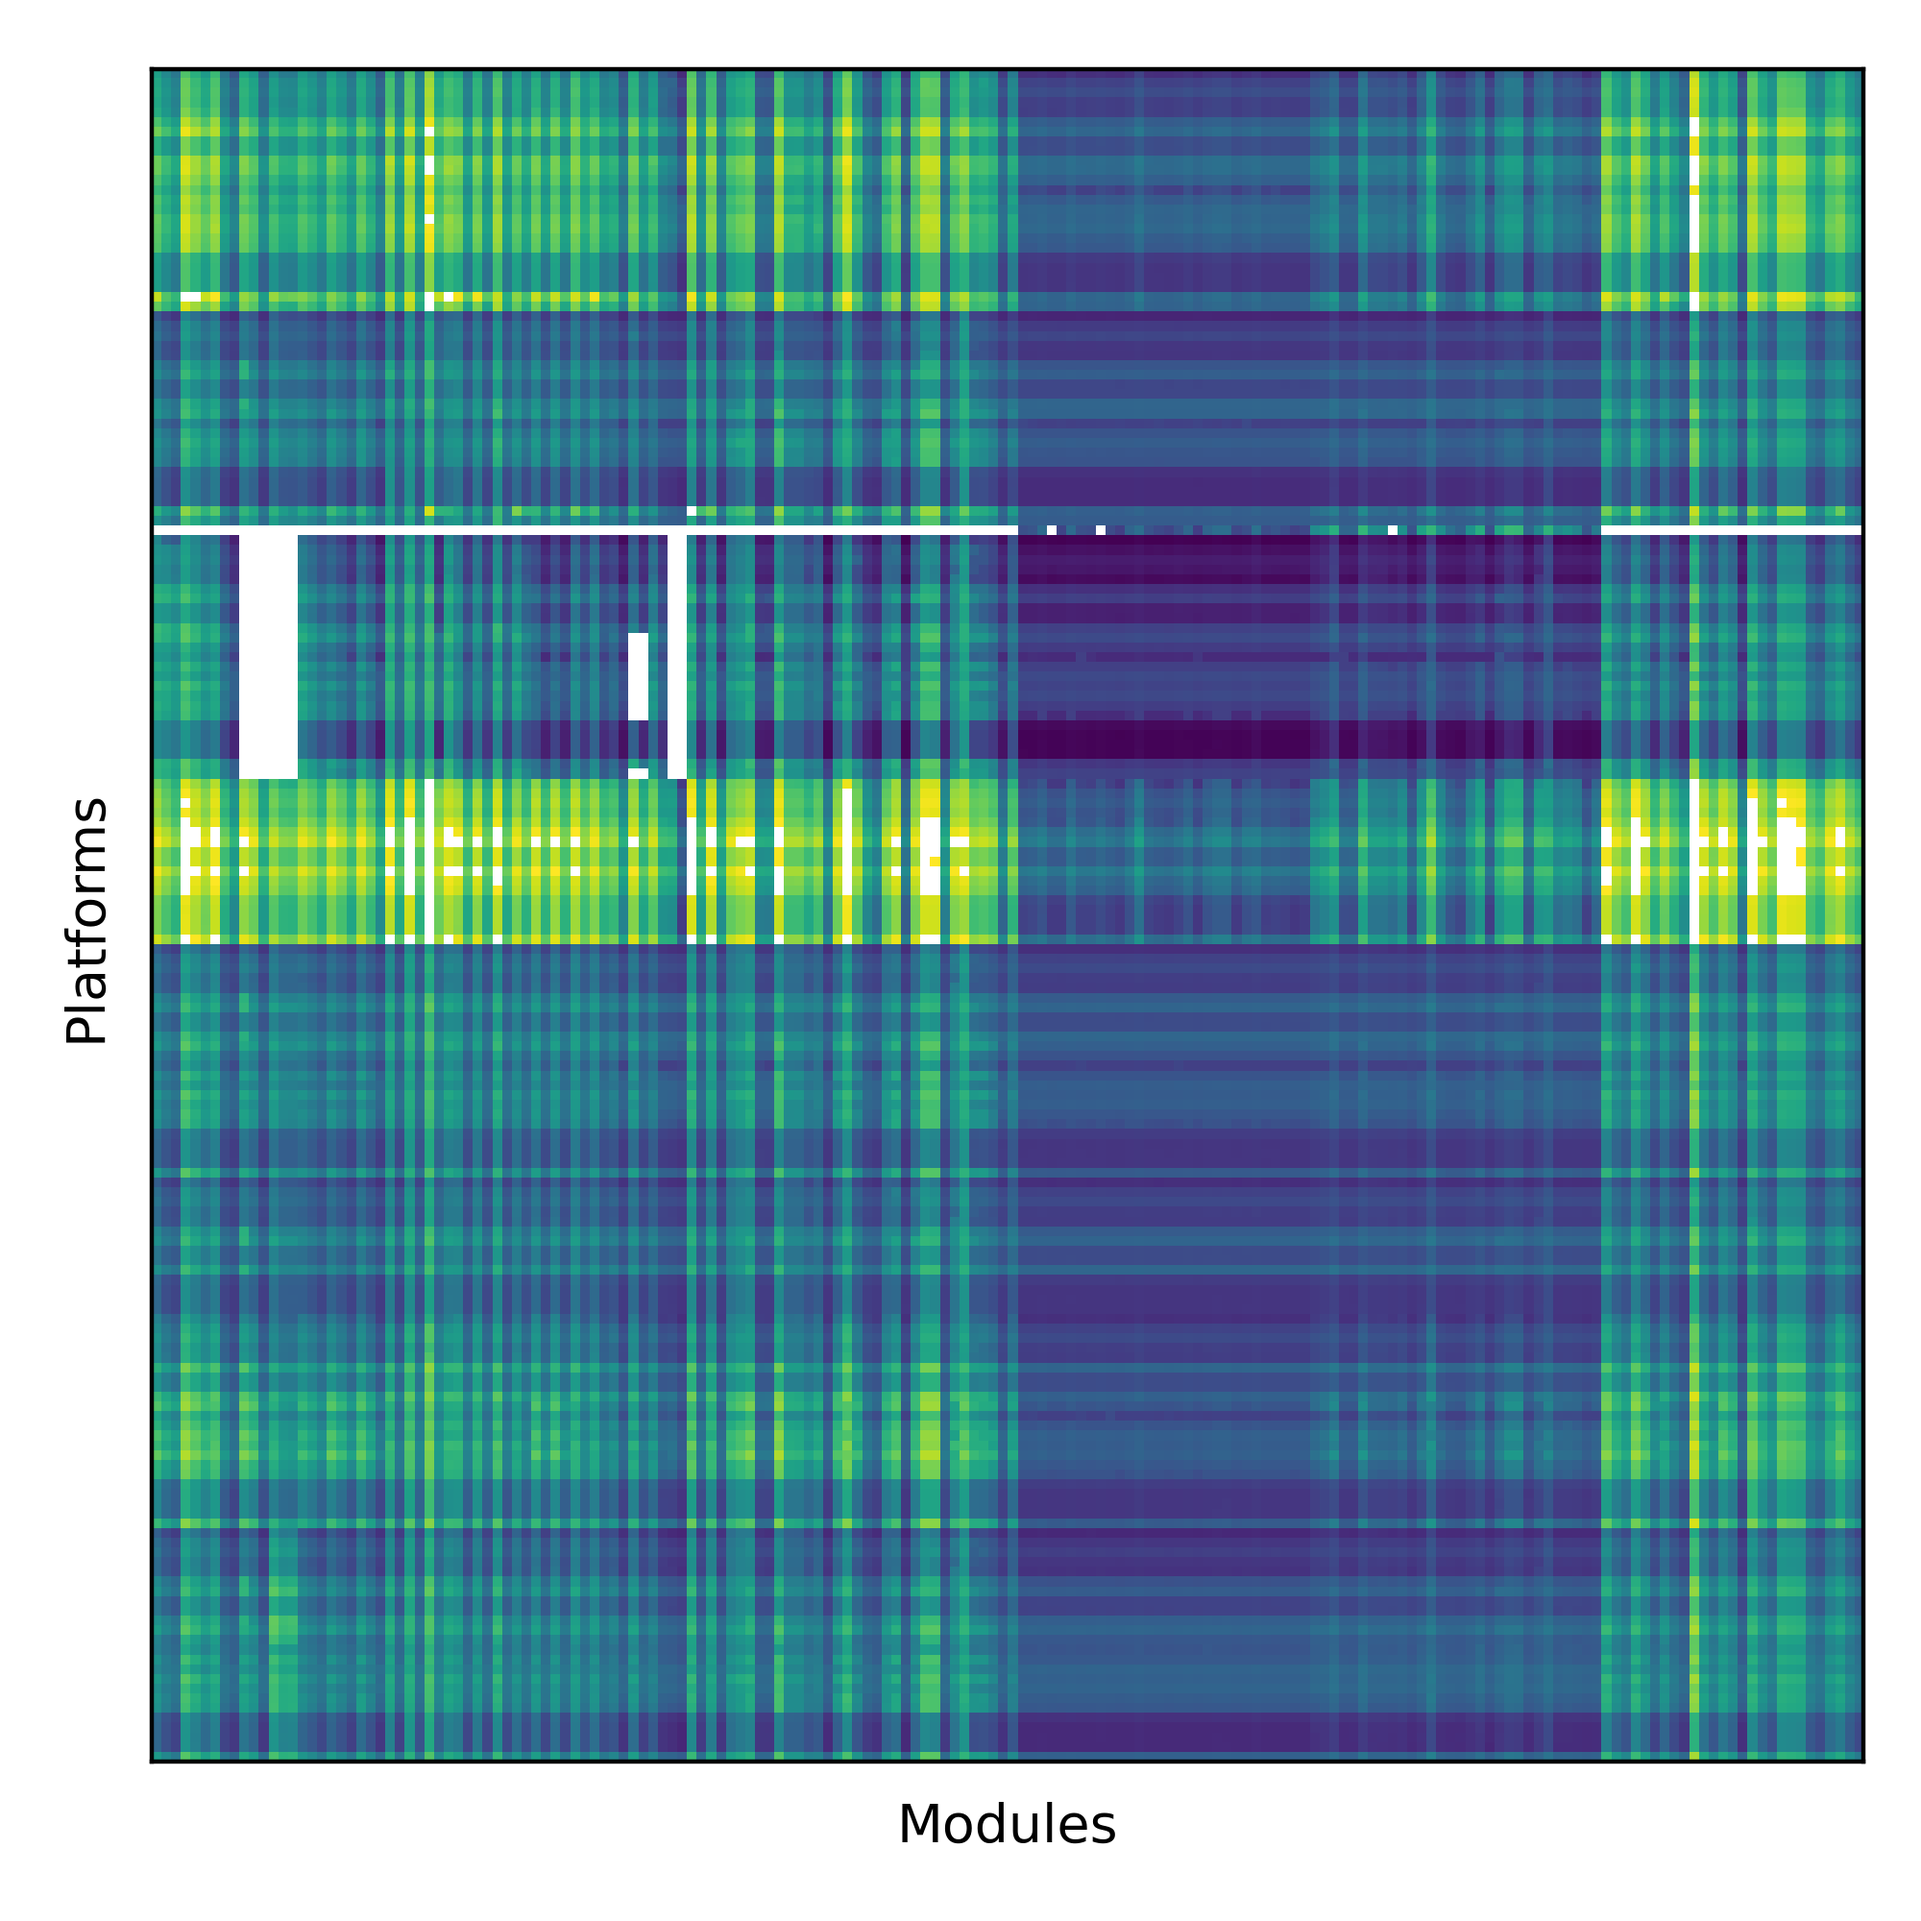
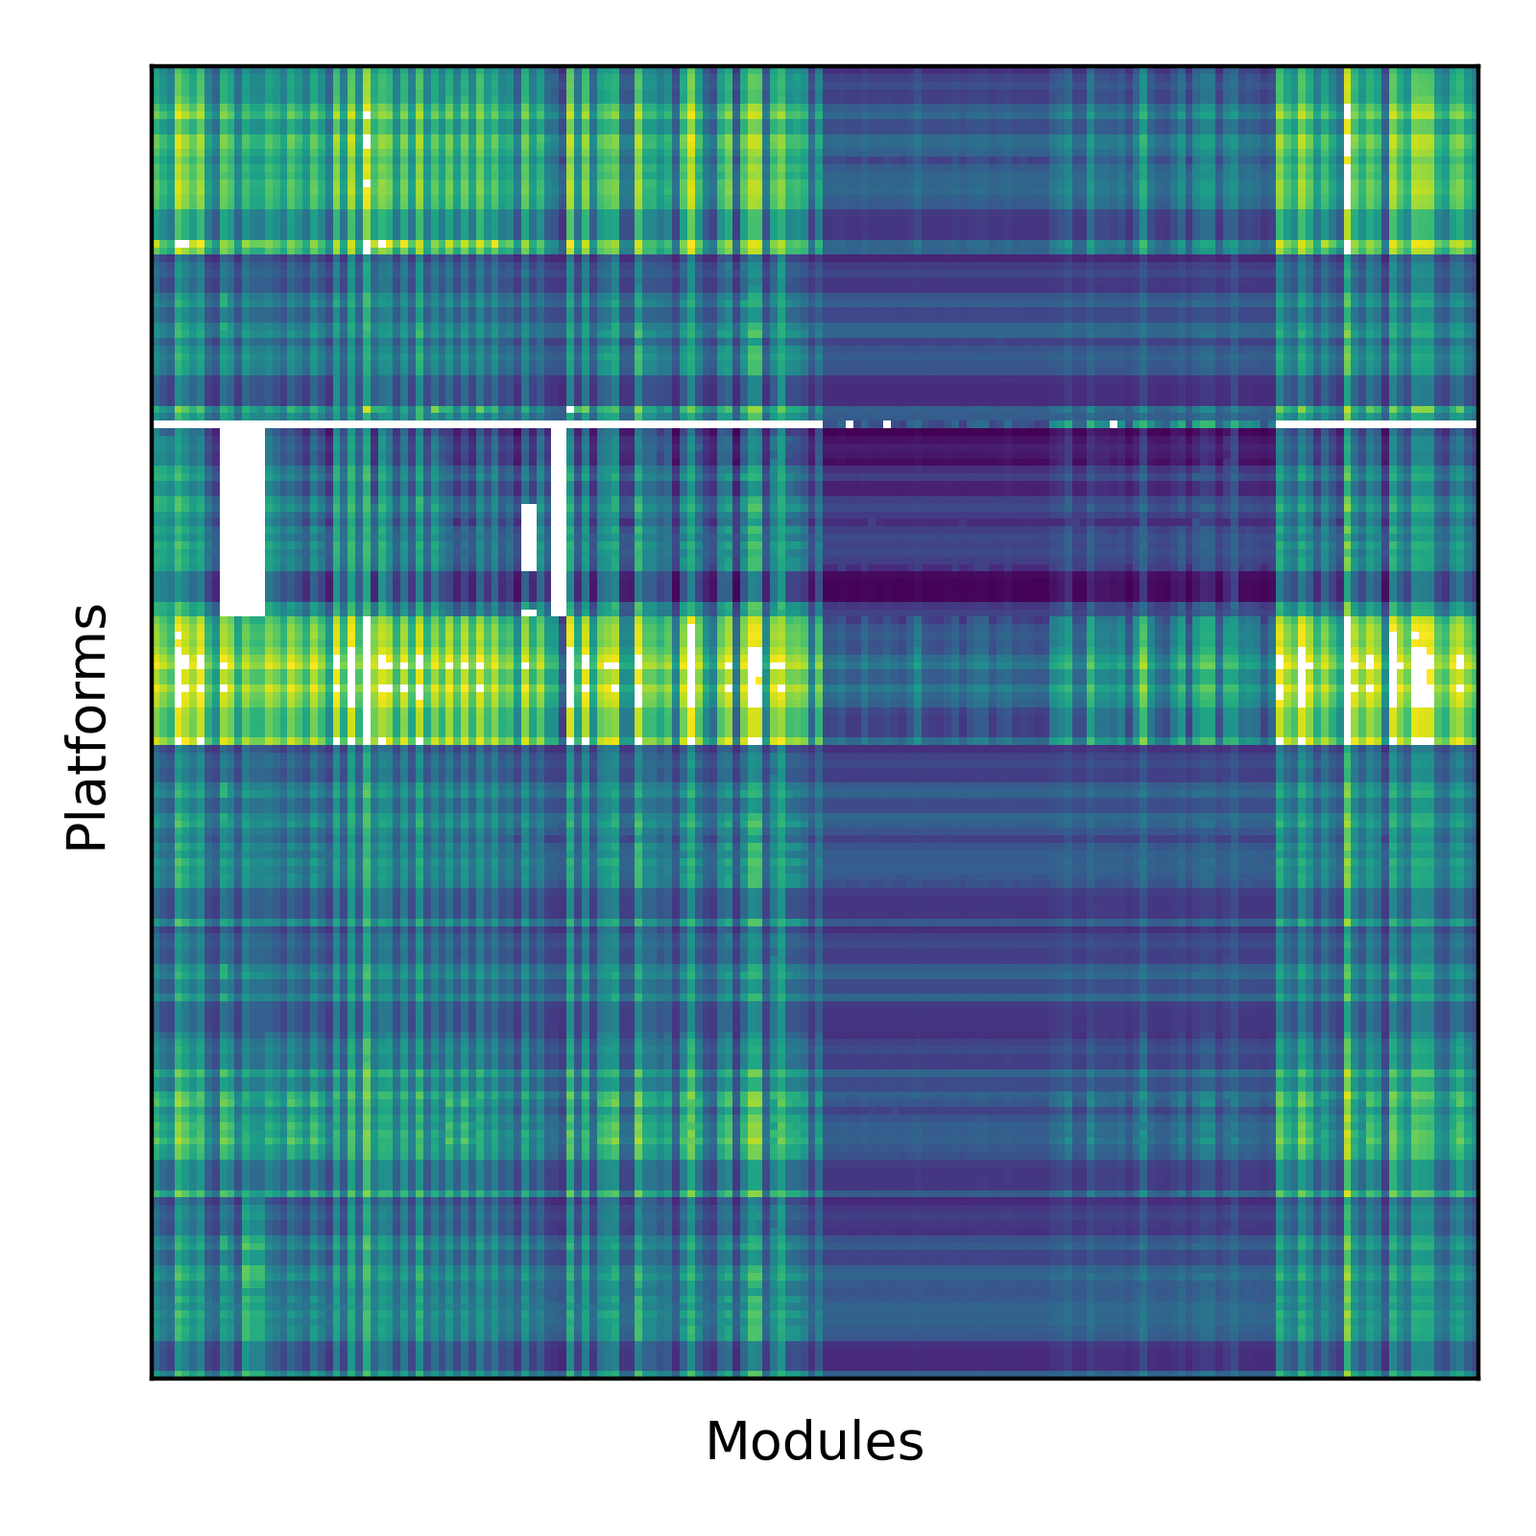
Updated figures

diff --git a/tools/compare.py b/tools/compare.py
@@ -1,0 +1,202 @@
+"""Draw figures."""
+
+import json
+from matplotlib import pyplot as plt
+import matplotlib.ticker as mtick
+import numpy as np
+import os
+
+
+_desc = "Draw comparison figures used in the paper."
+
+
+def _parse(p):
+    p.add_argument(
+        "-f", "--figures", nargs='+',
+        default=["comparison", "ablations_mf", "ablations_if", "interference"],
+        help="Figures to draw.")
+    p.add_argument("-o", "--out", help="Output directory.", default="figures")
+    p.add_argument(
+        "-p", "--path", help="Results directory.", default="results")
+    p.add_argument("-i", "--dpi", help="Out image DPI.", default=400, type=int)
+    return p
+
+
+def _load(p):
+    with open(p) as f:
+        return json.load(f)
+
+
+def _sharey(axs):
+    for ax in axs[1:]:
+        for tick in ax.yaxis.get_major_ticks():
+            tick.tick1line.set_visible(False)
+            tick.tick2line.set_visible(False)
+            tick.label1.set_visible(False)
+            tick.label2.set_visible(False)
+
+
+def _fmt_axes(fig, axs):
+    for ax in axs:
+        ax.set_xlabel("Training Split")
+        ax.xaxis.set_major_formatter(mtick.PercentFormatter(1.0))
+    fig.tight_layout()
+
+
+def _plot(
+    ax, values: list, labels: list = None, relative=None, pattern="results/{}",
+    format: list[str] = ['.-', '.:', '.--', '.-.'], key="mf", legend=True,
+    baseline=None
+) -> None:
+    labels = values if labels is None else labels
+    data = {
+        v: _load(os.path.join(pattern.format(v), "summary.json"))
+        for v in values}
+
+    if relative is not None:
+        if relative == "baseline":
+            norm = np.array(data[values[0]]["baseline_mean"])
+        else:
+            norm = np.array(data[relative][key]["mean"])
+    else:
+        norm = 1.0
+
+    for v, label, fmt in zip(values, labels, format):
+        ax.errorbar(
+            np.array(data[v]["splits"]),
+            np.array(data[v][key]["mean"]) / norm,
+            yerr=np.array(data[v][key]["std"]) / norm * 2 / 5, label=label,
+            capsize=2, fmt=fmt)
+
+    if baseline is not None:
+        ax.errorbar(
+            np.array(data[values[-1]]["splits"]),
+            np.array(data[values[-1]][key]["baseline_mean"]) / norm,
+            yerr=np.array(data[values[-1]][key]["baseline_std"]) / norm,
+            label=baseline, capsize=2, fmt=format[-1])
+
+    if legend:
+        ax.legend()
+    ax.grid()
+
+
+class Figures:
+    """Paper figures."""
+
+    @staticmethod
+    def comparison(args):
+        """Baseline comparisons."""
+        fig, axs = plt.subplots(1, 3, figsize=(12, 4))
+        _plot(
+            axs[0], ["embedding/128", "linear/128", "baseline/mlp"],
+            labels=[
+                "Pitot", "Linear Matrix Factorization",
+                "Single Neural Network"])
+        _plot(
+            axs[1], ["embedding/128", "paragon/512", "baseline/device_mlp"],
+            labels=["Pitot", "Paragon", "Per-Device MLP"],
+            baseline="Rank 1 Baseline")
+        _plot(
+            axs[2], [
+                "embedding/128", "baseline/module_only",
+                "baseline/platform_only", "linear/128"],
+            labels=[
+                "All Features (Pitot)", "Module Features Only",
+                "Platform Features Only", "No Features (Linear)"],
+            relative="embedding/128")
+
+        axs[0].set_ylabel("Mean Absolute Error")
+        axs[1].set_ylabel("Mean Absolute Error")
+        axs[2].set_ylabel("Relative Error")
+
+        _fmt_axes(fig, axs)
+        return {"comparisons": fig}
+
+    @staticmethod
+    def ablations_mf(args):
+        """Ablation plots."""
+        fig, axs = plt.subplots(1, 2, figsize=(6, 4))
+        _plot(
+            axs[0], [32, 64, 128, 256, 512],
+            pattern=args.path + "/embedding/{}",
+            labels=['$r=32$', '$r=64$', '$r=128$', '$r=256$', '$r=512$'],
+            relative=512,
+            format=['.-', '.:', '.--', '.-.', 'x-'])
+        _plot(
+            axs[1], [0, 2, 4, 8, 16],
+            pattern=args.path + "/features/{}",
+            labels=['$q=0$', '$q=2$', '$q=4$', '$q=8$', '$q=16$'],
+            relative=4,
+            format=['.-', '.:', 'x-', '.--', '.-.'])
+
+        axs[0].set_ylabel("Relative Error")
+        axs[0].set_title("Embedding Dimension")
+        axs[1].set_title("Learned Features")
+
+        _sharey(axs)
+        _fmt_axes(fig, axs)
+        for ax in axs:
+            ax.set_ylim(0.95, 1.5)
+        return {"ablations_mf": fig}
+
+    @staticmethod
+    def ablations_if(args):
+        """Ablation plots."""
+        fig, axs = plt.subplots(1, 2, figsize=(6, 4))
+        _plot(
+            axs[0], [1, 2, 3, 4],
+            pattern=args.path + "/interference/{}",
+            labels=['$s=1$', '$s=2$', '$s=3$', '$s=4$'],
+            relative=2, format=['.-', 'x:', '.--', '.-.'], legend=False)
+        _plot(
+            axs[1], [1, 2, 3, 4],
+            pattern=args.path + "/interference/{}",
+            labels=['$s=1$', '$s=2$', '$s=3$', '$s=4$'],
+            relative=2, format=['.-', 'x:', '.--', '.-.'], key='if')
+
+        axs[0].set_ylabel("Relative Error")
+        axs[0].set_title("Non-interference Error")
+        axs[1].set_title("Interference Error")
+
+        _sharey(axs)
+        _fmt_axes(fig, axs)
+        for ax in axs:
+            ax.set_ylim(0.85, 1.16)
+        return {"ablations_if": fig}
+
+    @staticmethod
+    def interference(args):
+        """Interference evaluation (2-way)."""
+        fig, axs = plt.subplots(1, 3, figsize=(12, 4))
+        methods = [
+            "interference/2", "interference/discard", "interference/ignore"]
+        methods3 = [
+            "interference3/2", "interference3/discard", "interference3/ignore",
+            "interference3/no-smt"]
+        names = ["Interference-Aware", "Discard", "Ignore"]
+        names3 = ["Interference-Aware", "Discard", "Ignore", "SMT Disabled"]
+        _plot(axs[0], methods, labels=names, legend=False)
+        _plot(axs[1], methods, labels=names, key="if", legend=False)
+        _plot(axs[2], methods3, labels=names3, key="if")
+        _sharey(axs)
+
+        axs[0].set_ylabel("Percent Error")
+
+        axs[0].set_title("Non-interference Error")
+        axs[1].set_title("Interference Error")
+        axs[2].set_title("Interference Error (3-way)")
+
+        _sharey(axs)
+        _fmt_axes(fig, axs)
+        for ax in axs:
+            ax.set_ylim(0, 0.35)
+        return {"interference": fig}
+
+
+def _main(args):
+    for name in args.figures:
+        figs = getattr(Figures, name)(args)
+        for k, v in figs.items():
+            out = os.path.join(args.out, k + ".png")
+            print("Created:", out)
+            v.savefig(out, dpi=args.dpi)

diff --git a/tools/figures.py b/tools/figures.py
@@ -13,7 +13,10 @@ _desc = "Miscellaneous paper figures."
 
 
 def _parse(p):
-    p.add_argument("figures", nargs='+', default=[], help="Figures to draw.")
+    p.add_argument(
+        "-f", "--figures", nargs='+',
+        default=["matrix", "spectral_norm", "interference_hist"],
+        help="Figures to draw.")
     p.add_argument("-o", "--out", help="Output directory.", default="figures")
     p.add_argument(
         "-p", "--path", help="Results directory.", default="results")
@@ -31,7 +34,7 @@ class Figures:
     @staticmethod
     def matrix(args):
         """Matrix dataset 'thumbnail' picture."""
-        fig, axs = plt.subplots(1, 1, figsize=(5, 5))
+        fig, axs = plt.subplots(1, 1, figsize=(4, 4))
         with np.errstate(divide='ignore'):
             data = np.log(np.load(args.data)["data"])
         axs.imshow(data)
@@ -62,14 +65,29 @@ class Figures:
         vvv = vmap(vmap(vmap(_spectral_norm)))
         pred = np.mean(vvv(data["V_s"], data["V_g"]), axis=(0, 1))
 
-        fig, ax = plt.subplots(1, 1, figsize=(6, 4))
+        fig, ax = plt.subplots(1, 1, figsize=(4.5, 3))
         ax.grid()
-        ax.scatter(measured, pred)
+        ax.scatter(measured, pred, marker='.')
         ax.set_ylabel(r"Learned: $\mathbb{E}[||\mathbf{F}_j||_2]$")
         ax.set_xlabel("Measured: Mean Percent Interference")
         ax.xaxis.set_major_formatter(mtick.PercentFormatter(1.0))
         fig.tight_layout()
         return {"spectral_norm": fig}
+
+    @staticmethod
+    def interference_hist(args):
+        """Interference histogram."""
+        ds = np.load(args.if_data)
+
+        baseline = ds["data"][ds["if_platform"], ds["if_module"]]
+        interference = ds["if_data"] / baseline - 1
+        fig, ax = plt.subplots(1, 1, figsize=(4.5, 3))
+        ax.hist(interference, bins=np.linspace(0, 1.50, 16), density=True)
+        ax.set_xlabel("Interference Slowdown")
+        ax.xaxis.set_major_formatter(mtick.PercentFormatter(1.0))
+        ax.grid()
+        fig.tight_layout()
+        return {"interference_hist": fig}
 
 
 def _main(args):

diff --git a/prediction/presets.py b/prediction/presets.py
@@ -86,12 +86,19 @@ PRESETS = {
     "interference3/discard": _if_objective(0.0),
     "interference3/ignore": _if_objective(1.0),
     "interference3/2": _if_model(2),
+    "interference3/no-smt": _if_model(2),
     # Other baselines
     "baseline/platform_only": {("model_args", "X_m"): None},
     "baseline/module_only": {("model_args", "X_p"): None},
     "baseline/mlp": {
         ("model",): "naive_mlp",
         ("model_args",): {"layers": (128, 128), "alpha": 0.1}
+    },
+    "baseline/device_mlp": {
+        ("model",): "device_mlp",
+        ("model_args",): {"layers": (64, 64), "alpha": 0.1},
+        ("training_args", "k"): 5,
+        ("training_args", "replicates"): 5
     },
 }
 

diff --git a/prediction/models.py b/prediction/models.py
@@ -149,7 +149,7 @@ class BaselineModel(hk.Module):
 
     def _lcall(self, ij, baseline: MFBaseline = None):
         def _inner(ij):
-            return self._call(ij) + Rank1.predict(baseline, ij)
+            return Rank1.predict(baseline, ij) + self.alpha * self._call(ij)
 
         return jax.tree_util.tree_map(_inner, ij)
 
@@ -196,7 +196,7 @@ class DeviceModel(BaselineModel):
             name="DeviceModel"):
         super().__init__(name=name)
         self.M = M()
-        self.mlps = MultiMLP(list(layers) + [1], jax.nn.tanh, shape[1])
+        self.mlps = MultiMLP(list(layers) + [1], jax.nn.tanh, shape[0])
         self.alpha = alpha
         self.shape = shape
 

diff --git a/tools/__init__.py b/tools/__init__.py
@@ -7,7 +7,7 @@ from . import merge
 from . import plot_large
 from . import experiments
 from . import summary
-from . import ablations
+from . import compare
 from . import figures
 from . import tsne
 
@@ -20,7 +20,7 @@ commands = {
     "plot_large": plot_large,
     "experiments": experiments,
     "summary": summary,
-    "ablations": ablations,
+    "compare": compare,
     "figures": figures,
     "tsne": tsne
 }

diff --git a/tools/tsne.py b/tools/tsne.py
@@ -79,7 +79,7 @@ def _plot_p_runtime(ax, dataset, P):
     runtime_index = np.array([
         runtimes[x.split('.')[0]] for x in dataset["platform"]])
 
-    markers = ['.', 'x', '+', 's', '1', '2', '3', 'd']
+    markers = ['.', 'x', '+', 'p', '1', '2', '3', 'd']
     for (k, v), m in zip(runtimes.items(), markers):
         ax.scatter(
             *P[runtime_index == v].T, c='C{}'.format(v),

diff --git a/tools/plot_large.py b/tools/plot_large.py
@@ -9,7 +9,7 @@ _desc = "Generate large matrix and side information plot."
 
 
 def _parse(p):
-    p.add_argument("-p", "--path", default="data.npz", help="Data file.")
+    p.add_argument("-p", "--path", default="data/data.npz", help="Data file.")
     p.add_argument(
         "-o", "--out", default="figures/dataset.png", help="Output file.")
 

diff --git a/README.md b/README.md
@@ -2,7 +2,7 @@
 
 Execution time prediction by Matrix Completion; currently in a prototyping phase.
 
-Please note that our code base is optimized for cross-validation and replicate batching on relatively small datasets, and will be highly inefficient for one-off training or significantly larger datasets. In particular, we trade off memory usage and complexity (both time/space) for higher GPU utilization and overall better performance, but only when training hundreds of replicates simultaneously on datasets of similar size to ours. Training with a small number of replicates will suffer from high overhead and low GPU utilization, while training on significantly larger datasets will suffer from memory exhaustion and disproportionately higher compute usage.
+Please note that our code base is optimized for cross-validation and replicate batching on relatively small datasets, and will be highly inefficient for one-off training or significantly larger datasets. In particular, we trade off memory usage and complexity (both time/space) for higher GPU utilization and overall better performance, but only when training hundreds of replicates simultaneously on datasets of similar size to ours. Training with a small number of replicates suffers from high overhead and low GPU utilization, while training on significantly larger datasets will suffer from memory exhaustion and disproportionately higher compute usage.
 
 ## Experiments
 
@@ -14,4 +14,12 @@ python manage.py experiments linear/*
 python manage.py experiments paragon/*
 python manage.py experiments interference/* -d data/data.if.npz
 python manage.py experiments interference3/* -d data/data.if3.npz
+```
+
+## Figures
+
+```
+python manage.py figures
+python manage.py ablations
+python manage.py tsne
 ```
